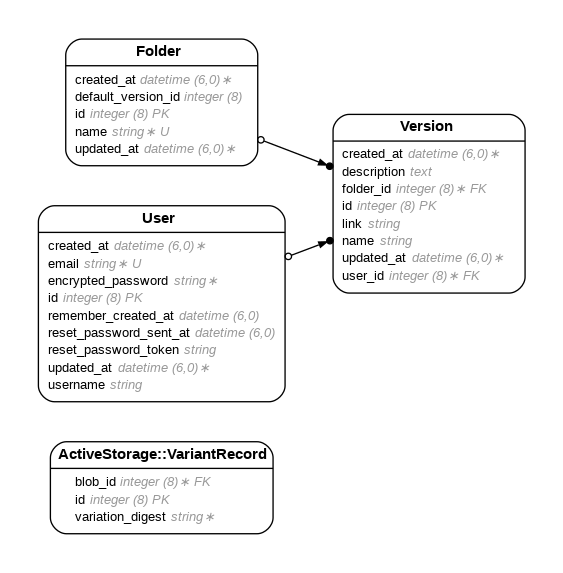
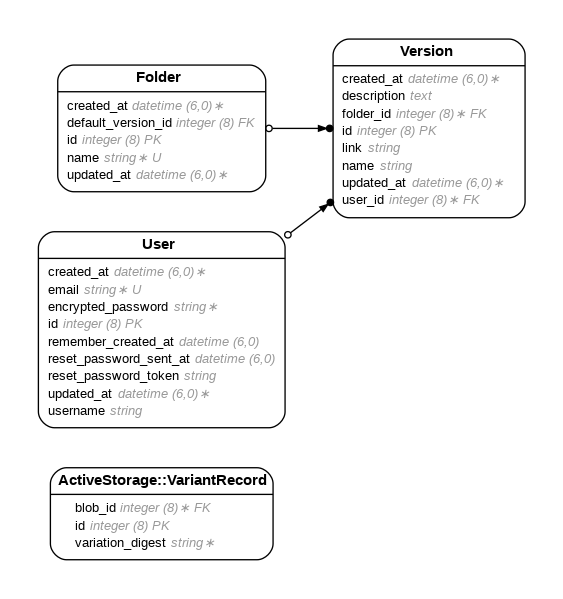
modify sample data task to reflect new change. allowed deletion of default_version

Changed region(s): [[0.0604, 0.0593, 0.9361, 0.7417], [0.0906, 0.7714, 0.4831, 0.9494]]

diff --git a/db/schema.rb b/db/schema.rb
@@ -10,7 +10,7 @@
 #
 # It's strongly recommended that you check this file into your version control system.
 
-ActiveRecord::Schema[7.1].define(version: 2025_04_16_162458) do
+ActiveRecord::Schema[7.1].define(version: 2025_04_16_164544) do
   # These are extensions that must be enabled in order to support this database
   enable_extension "plpgsql"
 
@@ -77,7 +77,7 @@ ActiveRecord::Schema[7.1].define(version: 2025_04_16_162458) do
 
   add_foreign_key "active_storage_attachments", "active_storage_blobs", column: "blob_id"
   add_foreign_key "active_storage_variant_records", "active_storage_blobs", column: "blob_id"
-  add_foreign_key "folders", "versions", column: "default_version_id"
+  add_foreign_key "folders", "versions", column: "default_version_id", on_delete: :nullify
   add_foreign_key "versions", "folders"
   add_foreign_key "versions", "users"
 end

diff --git a/app/models/folder.rb b/app/models/folder.rb
@@ -14,7 +14,7 @@
 #
 # Foreign Keys
 #
-#  fk_rails_...  (default_version_id => versions.id)
+#  fk_rails_...  (default_version_id => versions.id) ON DELETE => nullify
 #
 class Folder < ApplicationRecord
   validates :name, presence: true, uniqueness: true
@@ -32,6 +32,7 @@ class Folder < ApplicationRecord
   def default_version_must_belong_to_folder
     if default_version && default_version.folder_id != id
       errors.add(:default_version, 'must belong to this folder')
+    end
   end
 
 end

diff --git a/db/migrate/20250416164544_change_default_version_fk_to_nullify.rb b/db/migrate/20250416164544_change_default_version_fk_to_nullify.rb
@@ -1,0 +1,6 @@
+class ChangeDefaultVersionFkToNullify < ActiveRecord::Migration[7.1]
+  def change
+    remove_foreign_key :folders, column: :default_version_id
+    add_foreign_key :folders, :versions, column: :default_version_id, on_delete: :nullify
+  end
+end
